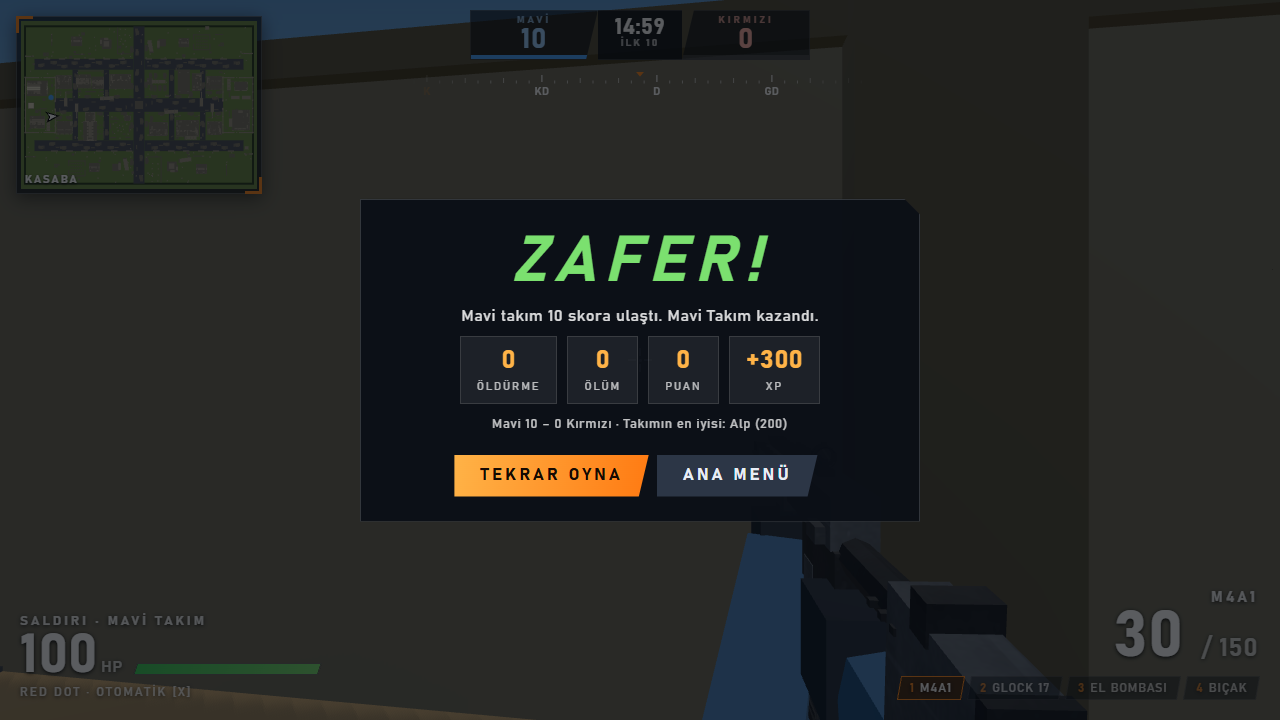
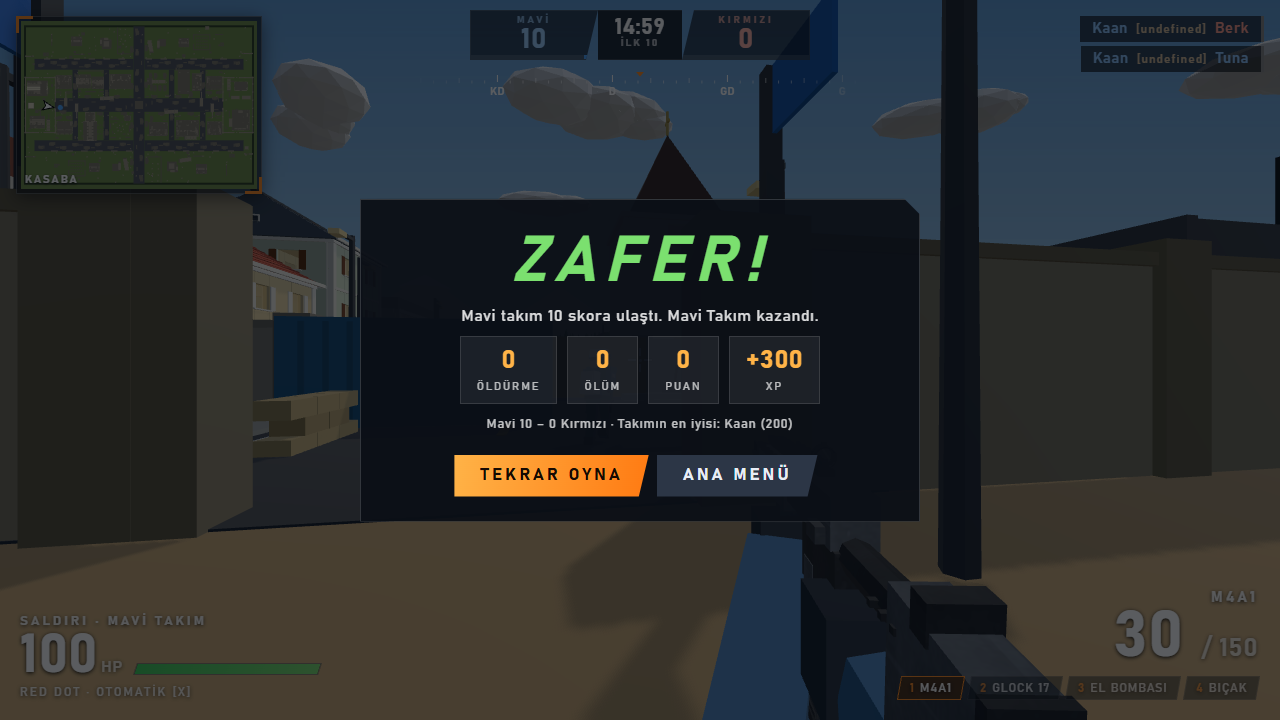
Doğma koruması: görünür mavi kalkan (F_PROT), ateşle biter, 3 sn → 2 sn; netbullet/protshot teşhis scriptleri

diff --git a/src/game/soldier.js b/src/game/soldier.js
@@ -20,6 +20,8 @@ export { makeLoadout };
 // Eski ad: seçim yoksa sınıf varsayılanı
 export function buildLoadout(cls, team, choice = {}) { return makeLoadout(cls, team, choice); }
 
+const SHIELD_GEO = new THREE.SphereGeometry(0.85, 14, 10);
+
 export class Soldier {
   constructor(game, { id, name, team, cls, isPlayer = false }) {
     this.game = game;
@@ -65,6 +67,8 @@ export class Soldier {
   get zt() { return this.boss ? ZBOSS : ZTYPES[this.ztype] || ZTYPES.walker; }
   get ability() { return this.def.zombie ? this.zt.ability : null; }
   get abOn() { return this.abActive > 0; }
+  get protected() { return this.alive && (this.protT > 0.001 || !!this.protNet); }        // doğma koruması (ağdan gelen bayrak dahil): vurulamaz, görünür kalkan
+
   get cloaked() { return this.cloakNet || (this.def.zombie && this.abActive > 0 && (this.zt.ability.id === 'cloak' || this.zt.ability.id === 'shadow')); }
   // ölüm ekranında: bir sonraki doğuşta insan mı olacak (can hakkı bitti)
   get willCure() { return !!this.def.zombie && this.zLives <= 0 && !this.alive; }
@@ -146,7 +150,7 @@ export class Soldier {
   right(out = new THREE.Vector3()) { return out.set(Math.cos(this.yaw), 0, -Math.sin(this.yaw)); }
   center(out = new THREE.Vector3()) { return out.set(this.pos.x, this.pos.y + this.height * 0.6, this.pos.z); }
 
-  spawn(point, protect = 2.5) {
+  spawn(point, protect = 2) {
     this.pos.set(point.x, 0, point.z);
     this.vel.set(0, 0, 0);
     this.yaw = point.ry; this.pitch = 0; this.recoilP = 0;
@@ -156,7 +160,7 @@ export class Soldier {
     this.items = this.game.mode.gungame ? ggItems(this.ggLevel) : makeLoadout(this.cls, this.team, this.choice);
     this.cur = 0;
     this.cd = 0; this.reloadT = 0; this.switchT = 0; this.useT = 0; this.swing = null; this.comboT = 0; this.autoSwitchT = 0; this.blindT = 0; this.burstLeft = 0;
-    this.protT = protect;
+    this.protT = protect; this.protNet = false;
     this.crouching = false; this.prone = false; this.proneT = 0; this.crouchT = 0; this.leanDir = 0; this.leanT = 0; this.leanOff.set(0, 0, 0);
     this.height = H_STAND; this.ads = false; this.adsT = 0;
     this.model.root.visible = !this.isPlayer;
@@ -316,6 +320,7 @@ export class Soldier {
       const d = base.clone().addScaledVector(right, Math.cos(a) * r).addScaledVector(up, Math.sin(a) * r).normalize();
       g.shootRay(this, origin, d, st, muzzle, camO);
     }
+    this.protT = 0;                                                              // ateş eden artık dokunulmaz değil (korumayla düşmana ateş edilemez)
     g.effects.muzzle(muzzle, base);
     g.sfx.shot(st.sound, this.pos);
     this.flashT = 0.06;
@@ -616,6 +621,21 @@ export class Soldier {
     } else this.leanOff.set(0, 0, 0);
   }
 
+  // Doğma koruması kalkanı: mavi, nabız gibi atan yarı saydam balon (düşman da görür; "mermi geçiyor" yanılgısını önler)
+  _shield(on) {
+    let sh = this._shieldMesh;
+    if (!on) { if (sh) sh.visible = false; return; }
+    if (!sh) {
+      sh = this._shieldMesh = new THREE.Mesh(SHIELD_GEO, new THREE.MeshBasicMaterial({ color: 0x66ccff, transparent: true, opacity: 0.2, depthWrite: false, side: THREE.DoubleSide }));
+      sh.position.y = 0.9; sh.renderOrder = 5; sh.frustumCulled = false;
+      this.model.root.add(sh);
+    }
+    sh.visible = !(this.isPlayer && !this.game.showSelf);                          // 1. şahıs: kendi balonun görüşü kapatmasın
+    const k = 1 + Math.sin(this.game.time * 9) * 0.04;
+    sh.scale.set(k, 1.12 * k, k);
+    sh.material.opacity = 0.16 + 0.1 * (0.5 + 0.5 * Math.sin(this.game.time * 7));
+  }
+
   // Üçüncü şahıs model senkronu (oyuncu hariç): hıza bağlı adım döngüsü, gövde eğimi, kol sallanması
   syncModel(dt) {
     if (this.game.headless) return;                                                     // görsel animasyon: sunucuda gerekmez
@@ -623,6 +643,7 @@ export class Soldier {
     if (this.isPlayer && !this.game.showSelf) { root.visible = false; return; }      // 1. şahıs: kendi gövdeni görmezsin
     if (this.isPlayer) this._syncWeaponModel();                                         // 3. şahıs: elindeki silah modeli güncel olsun
     root.visible = this.alive || this.deadT < 5;
+    this._shield(this.protected);
     if (this.cloaked && this.alive && !this.isPlayer && this.pos.distanceTo(this.game.camera.position) > 3) root.visible = false;   // görünmez zombi: yalnızca 3 m içinde seçilir
     root.position.set(this.pos.x, this.pos.y + (m.groundOffset ?? m.root.position.y), this.pos.z);
     // Bacaklar (root) bakış yönüne gecikmeli döner; gövde (silah) hep bakış yönünde kalır: yerinde dönerken ayaklar takip eder, koşarken hızla hizalanır

diff --git a/src/net/protocol.js b/src/net/protocol.js
@@ -28,10 +28,10 @@ const q2 = (v) => Math.round(v * 100) / 100;
 const q3 = (v) => Math.round(v * 1000) / 1000;
 
 // bayrak bitleri
-export const F_CROUCH = 1, F_PRONE = 2, F_SPRINT = 4, F_ADS = 8, F_GROUND = 16, F_LEFT = 32, F_CLOAK = 64;   // F_LEFT: 3. şahıs sol omuz duruşu (görsel)
+export const F_CROUCH = 1, F_PRONE = 2, F_SPRINT = 4, F_ADS = 8, F_GROUND = 16, F_LEFT = 32, F_CLOAK = 64, F_PROT = 128;   // F_LEFT: 3. şahıs sol omuz duruşu (görsel)
 
 export function packFlags(s) {
-  return (s.crouching ? F_CROUCH : 0) | (s.prone ? F_PRONE : 0) | (s.sprinting ? F_SPRINT : 0) | (s.ads ? F_ADS : 0) | (s.onGround ? F_GROUND : 0) | (s.stanceLeft ? F_LEFT : 0) | (s.cloaked ? F_CLOAK : 0);
+  return (s.crouching ? F_CROUCH : 0) | (s.prone ? F_PRONE : 0) | (s.sprinting ? F_SPRINT : 0) | (s.ads ? F_ADS : 0) | (s.onGround ? F_GROUND : 0) | (s.stanceLeft ? F_LEFT : 0) | (s.cloaked ? F_CLOAK : 0) | (s.protT > 0 ? F_PROT : 0);
 }
 
 // Bir savaşçının ağ durumu (kompakt anahtarlar)
@@ -60,7 +60,7 @@ export function slowSig(s) {
 
 export function applyFlags(s, f) {
   s.crouching = !!(f & F_CROUCH); s.prone = !!(f & F_PRONE); s.sprinting = !!(f & F_SPRINT);
-  s.ads = !!(f & F_ADS); s.onGround = !!(f & F_GROUND); s.cloakNet = !!(f & F_CLOAK);
+  s.ads = !!(f & F_ADS); s.onGround = !!(f & F_GROUND); s.cloakNet = !!(f & F_CLOAK); s.protNet = !!(f & F_PROT);
 }
 
 // Varsayılan sunucu adresi: sayfa HTTPS ile açıldıysa aynı alan adındaki /ws (ters vekil), değilse :8787

diff --git a/src/net/client.js b/src/net/client.js
@@ -1,6 +1,6 @@
 // İstemci ağ katmanı: bağlantı, istemci tarafı tahmin (prediction) + sunucu uzlaştırması (reconciliation),
 // uzaktaki oyuncular için snapshot interpolasyonu.
-import { SIM_HZ, SIM_DT, applyFlags, F_LEFT } from './protocol.js';
+import { SIM_HZ, SIM_DT, applyFlags, F_LEFT, F_PROT } from './protocol.js';
 import { applyInput } from '../sim/input.js';
 import { WSTATS, ZT_ORDER } from '../game/stats.js';
 
@@ -161,6 +161,7 @@ export class NetClient {
     if (!me.now.a) { if (s.alive) this.applyState(s, me.now, true); this.hist.length = 0; s.respawnT = me.rt; return; }
     if (!s.alive) { this.applyState(s, me.now, true); }
     s.hp = st.hp;
+    s.protNet = !!(me.now.f & F_PROT);                              // doğma koruması: sunucunun şu anki durumundan (kalkan görseli)
     // sunucunun işlediği son girdi (ack) anındaki tahminimizle karşılaştır
     let rec = null;
     while (this.hist.length && this.hist[0].q <= me.ack) rec = this.hist.shift();

diff --git a/src/game/game.js b/src/game/game.js
@@ -642,7 +642,7 @@ export class Game {
       if (want && want !== s.ztype) { s.ztype = want; s.setClass('zombie'); }
       if (ctl) ctl.pendingZ = null;
     }
-    s.spawn(s.def.zombie && this.infPool ? this.pickZombieSpawn(s, first) : this.pickSpawn(s.team, s), first ? 1 : 3);
+    s.spawn(s.def.zombie && this.infPool ? this.pickZombieSpawn(s, first) : this.pickSpawn(s.team, s), first ? 1 : 2);
     this.world.settle(s);
     s.zoneT = 0;
     if (s.brain) s.brain.reset();

diff --git a/OYUN.md b/OYUN.md
@@ -688,3 +688,8 @@ Sunucu optimizasyonu: harita odalar arasında paylaşılır (`Game._mapCache`, D
 - **Sunucu güvenliği:** metin string olmalı; kontrol + biçim karakterleri (`\p{Cc}\p{Cf}`: sıfır genişlik, yön değiştirme) atılır, boşluklar teke iner, 120 karaktere kesilir; oyuncu başına 6 sn'de en çok 4 mesaj (aşınca yalnızca gönderene uyarı); istemci `textContent` ile yazar, HTML çalışmaz. Katılma/ayrılma sistem mesajı olarak yayılır. Test: `scripts/chattest.mjs` (protokol), `scripts/chatui.mjs` (iki tarayıcı).
 - **3. şahıs akıcılığı:** yerel karakter modeli de kamerayla aynı alpha ile enterpole edilir (`game.js` loop); 144 Hz'de karakter–kamera sapması 2,14 cm → 0,01 cm. Ölçüm scriptleri `netthird/netcam/netanim`.
 - **Ctrl+W koruması:** fare kilitlenince tam ekran + Keyboard Lock, maç sürerken `beforeunload` onayı; Ayarlar → "Tam ekran + Ctrl+W koruması" ile kapatılır. Test: `scripts/keylocktest.mjs`.
+
+### 12.35 Doğma koruması görünür + ateşle biter ("mermiler içinden geçiyor" şikâyeti)
+- Resmi odalarda botlar sürekli doğar; doğan savaşçı 3 sn vurulamazdı ve **görsel ipucu yoktu**, üstelik bu sürede ateş edebiliyordu (5 dk'lık botlu maçta canlı süresinin ~%7'si korumada, koruma altında 180–740 mermi atılıyordu). Oyuncu için bu "mermi rakibin içinden geçiyor" gibi görünür.
+- Düzeltme: koruma 3 → **2 sn**; **ateş eden savaşçının koruması hemen biter**; korumalı savaşçının çevresinde **mavi, atan yarı saydam kalkan** görünür (ağdan `F_PROT` bayrağı, `Soldier._shield`). Test: `scripts/protshot.mjs`. İsabet tanısı için `scripts/netbullet.mjs` (gerçek istemci + gecikme, sunucu isabeti/ istemci tahmini).
+- Sunucu adım süresi 16v16'da ort. 0,44 ms (bütçe 16,7 ms): sunucu yükü sorun değil; geri sarma (lag comp) mantığı tutarlı.
